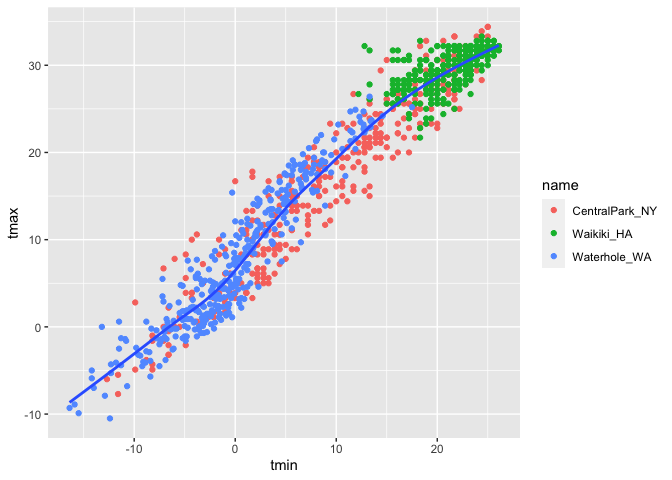
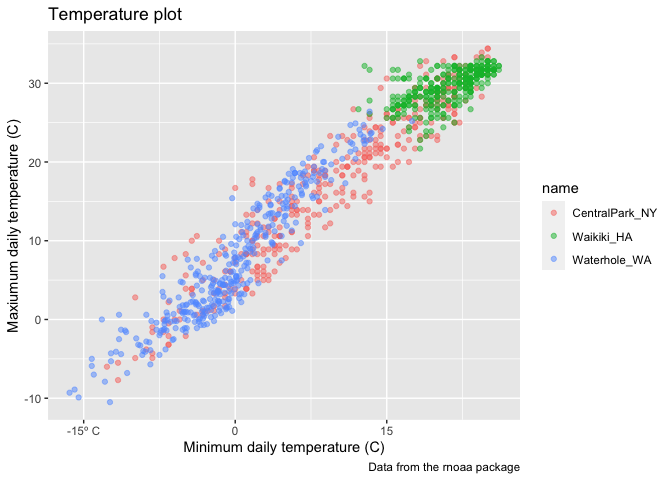
Label + Scale

diff --git a/Visualization-Part_2.md b/Visualization-Part_2.md
@@ -84,7 +84,7 @@ weather_df
 
 ## Review Scatterplots
 
-scatterplot of tmax against tmin
+Scatterplot of tmax against tmin
 
 ``` r
 weather_df %>% 
@@ -95,3 +95,98 @@ weather_df %>%
     ## Warning: Removed 15 rows containing missing values (geom_point).
 
 ![](Visualization-Part_2_files/figure-gfm/unnamed-chunk-3-1.png)<!-- -->
+
+## Labels
+
+Provide informative axis labels, plot titles, and captions, all of which
+can be controlled using labs().
+
+``` r
+weather_df %>% 
+  ggplot(aes(x = tmin, y = tmax)) + 
+  geom_point(aes(color = name), alpha = .5) + 
+  labs(
+    title = "Temperature plot",
+    x = "Minimum daily temperature (C)",
+    y = "Maxiumum daily temperature (C)",
+    caption = "Data from the rnoaa package"
+  )
+```
+
+    ## Warning: Removed 15 rows containing missing values (geom_point).
+
+![](Visualization-Part_2_files/figure-gfm/unnamed-chunk-4-1.png)<!-- -->
+
+## Scale
+
+坐标轴刻度线x轴y轴：scale_x\_\* and scale_y\_\* where \* depends on the
+type of variable mapped to the x and y aesthetics (i.e. continuous vs
+discrete).
+
+``` r
+weather_df %>% 
+  ggplot(aes(x = tmin, y = tmax)) + 
+  geom_point(aes(color = name), alpha = .5) + 
+  labs(
+    title = "Temperature plot",
+    x = "Minimum daily temperature (C)",
+    y = "Maxiumum daily temperature (C)",
+    caption = "Data from the rnoaa package") + 
+  scale_x_continuous(
+    breaks = c(-15, 0, 15), 
+    labels = c("-15º C", "0", "15"))
+```
+
+    ## Warning: Removed 15 rows containing missing values (geom_point).
+
+![](Visualization-Part_2_files/figure-gfm/unnamed-chunk-5-1.png)<!-- -->
+
+### Complex Scales
+
+scale_y\_sqrt() can be added to a ggplot object to transform the Y scale
+xlim() can be used to control the plot limits in the X axis.
+
+``` r
+weather_df %>% 
+  ggplot(aes(x = tmin, y = tmax)) + 
+  geom_point(aes(color = name), alpha = .5) + 
+  labs(
+    title = "Temperature plot",
+    x = "Minimum daily temperature (C)",
+    y = "Maxiumum daily temperature (C)",
+    caption = "Data from the rnoaa package") + 
+  scale_x_continuous(
+    breaks = c(-15, 0, 15), 
+    labels = c("-15ºC", "0", "15"),
+    limits = c(-20, 30)) + 
+  scale_y_continuous(
+    trans = "sqrt", 
+    position = "right")
+```
+
+    ## Warning in self$trans$transform(x): NaNs produced
+
+    ## Warning: Transformation introduced infinite values in continuous y-axis
+
+    ## Warning: Removed 90 rows containing missing values (geom_point).
+
+![](Visualization-Part_2_files/figure-gfm/unnamed-chunk-6-1.png)<!-- -->
+
+arguments to scale_color_hue() control the color scale and the name in
+the plot legend.
+
+``` r
+weather_df %>% 
+  ggplot(aes(x = tmin, y = tmax)) + 
+  geom_point(aes(color = name), alpha = .5) + 
+  labs(
+    title = "Temperature plot",
+    x = "Minimum daily temperature (C)",
+    y = "Maxiumum daily temperature (C)",
+    caption = "Data from the rnoaa package") + 
+    scale_color_hue(name = "Location", h = c(100, 300))
+```
+
+    ## Warning: Removed 15 rows containing missing values (geom_point).
+
+![](Visualization-Part_2_files/figure-gfm/unnamed-chunk-7-1.png)<!-- -->
